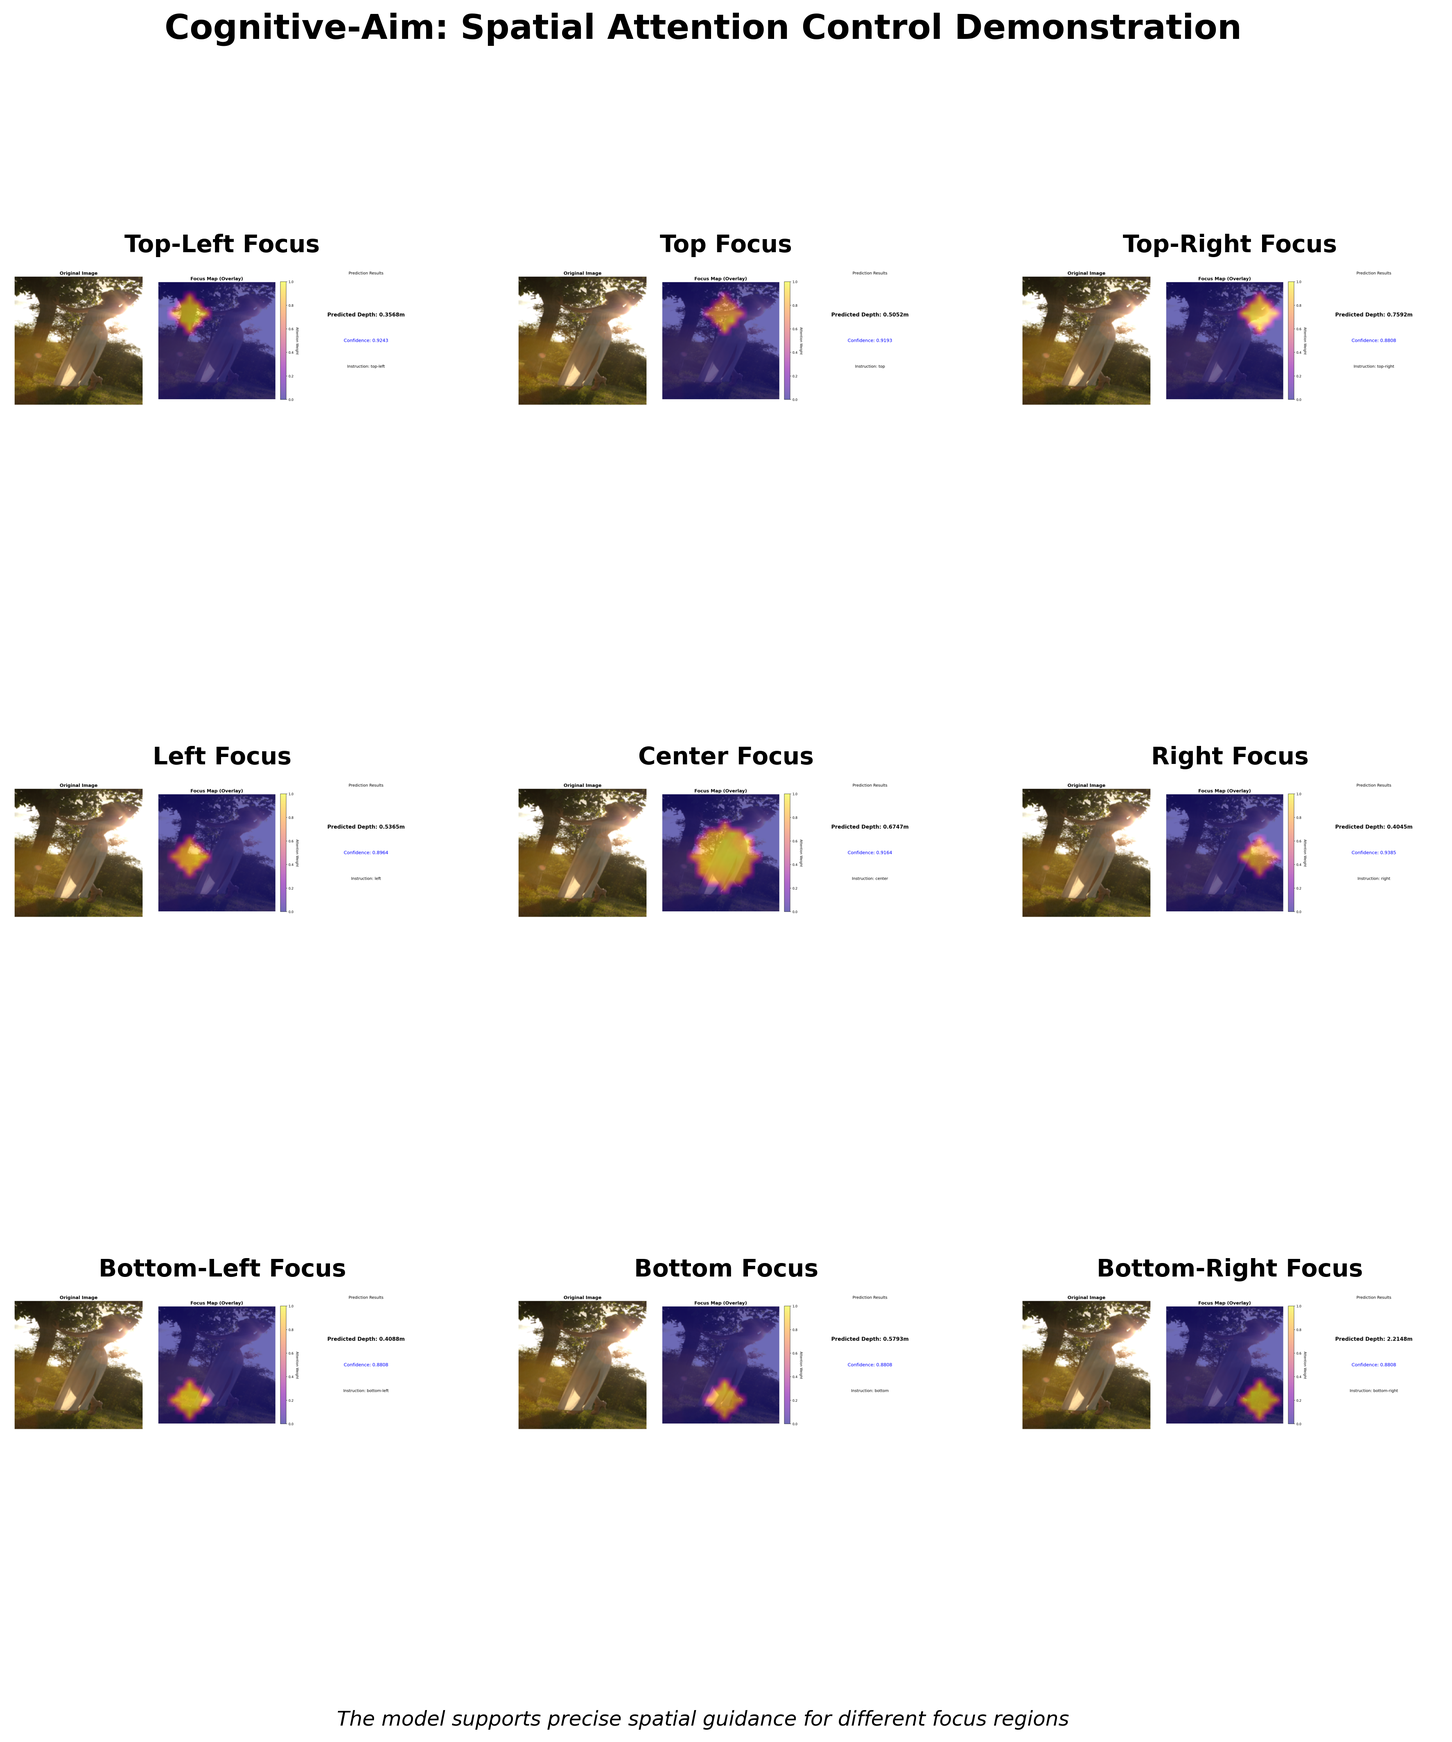
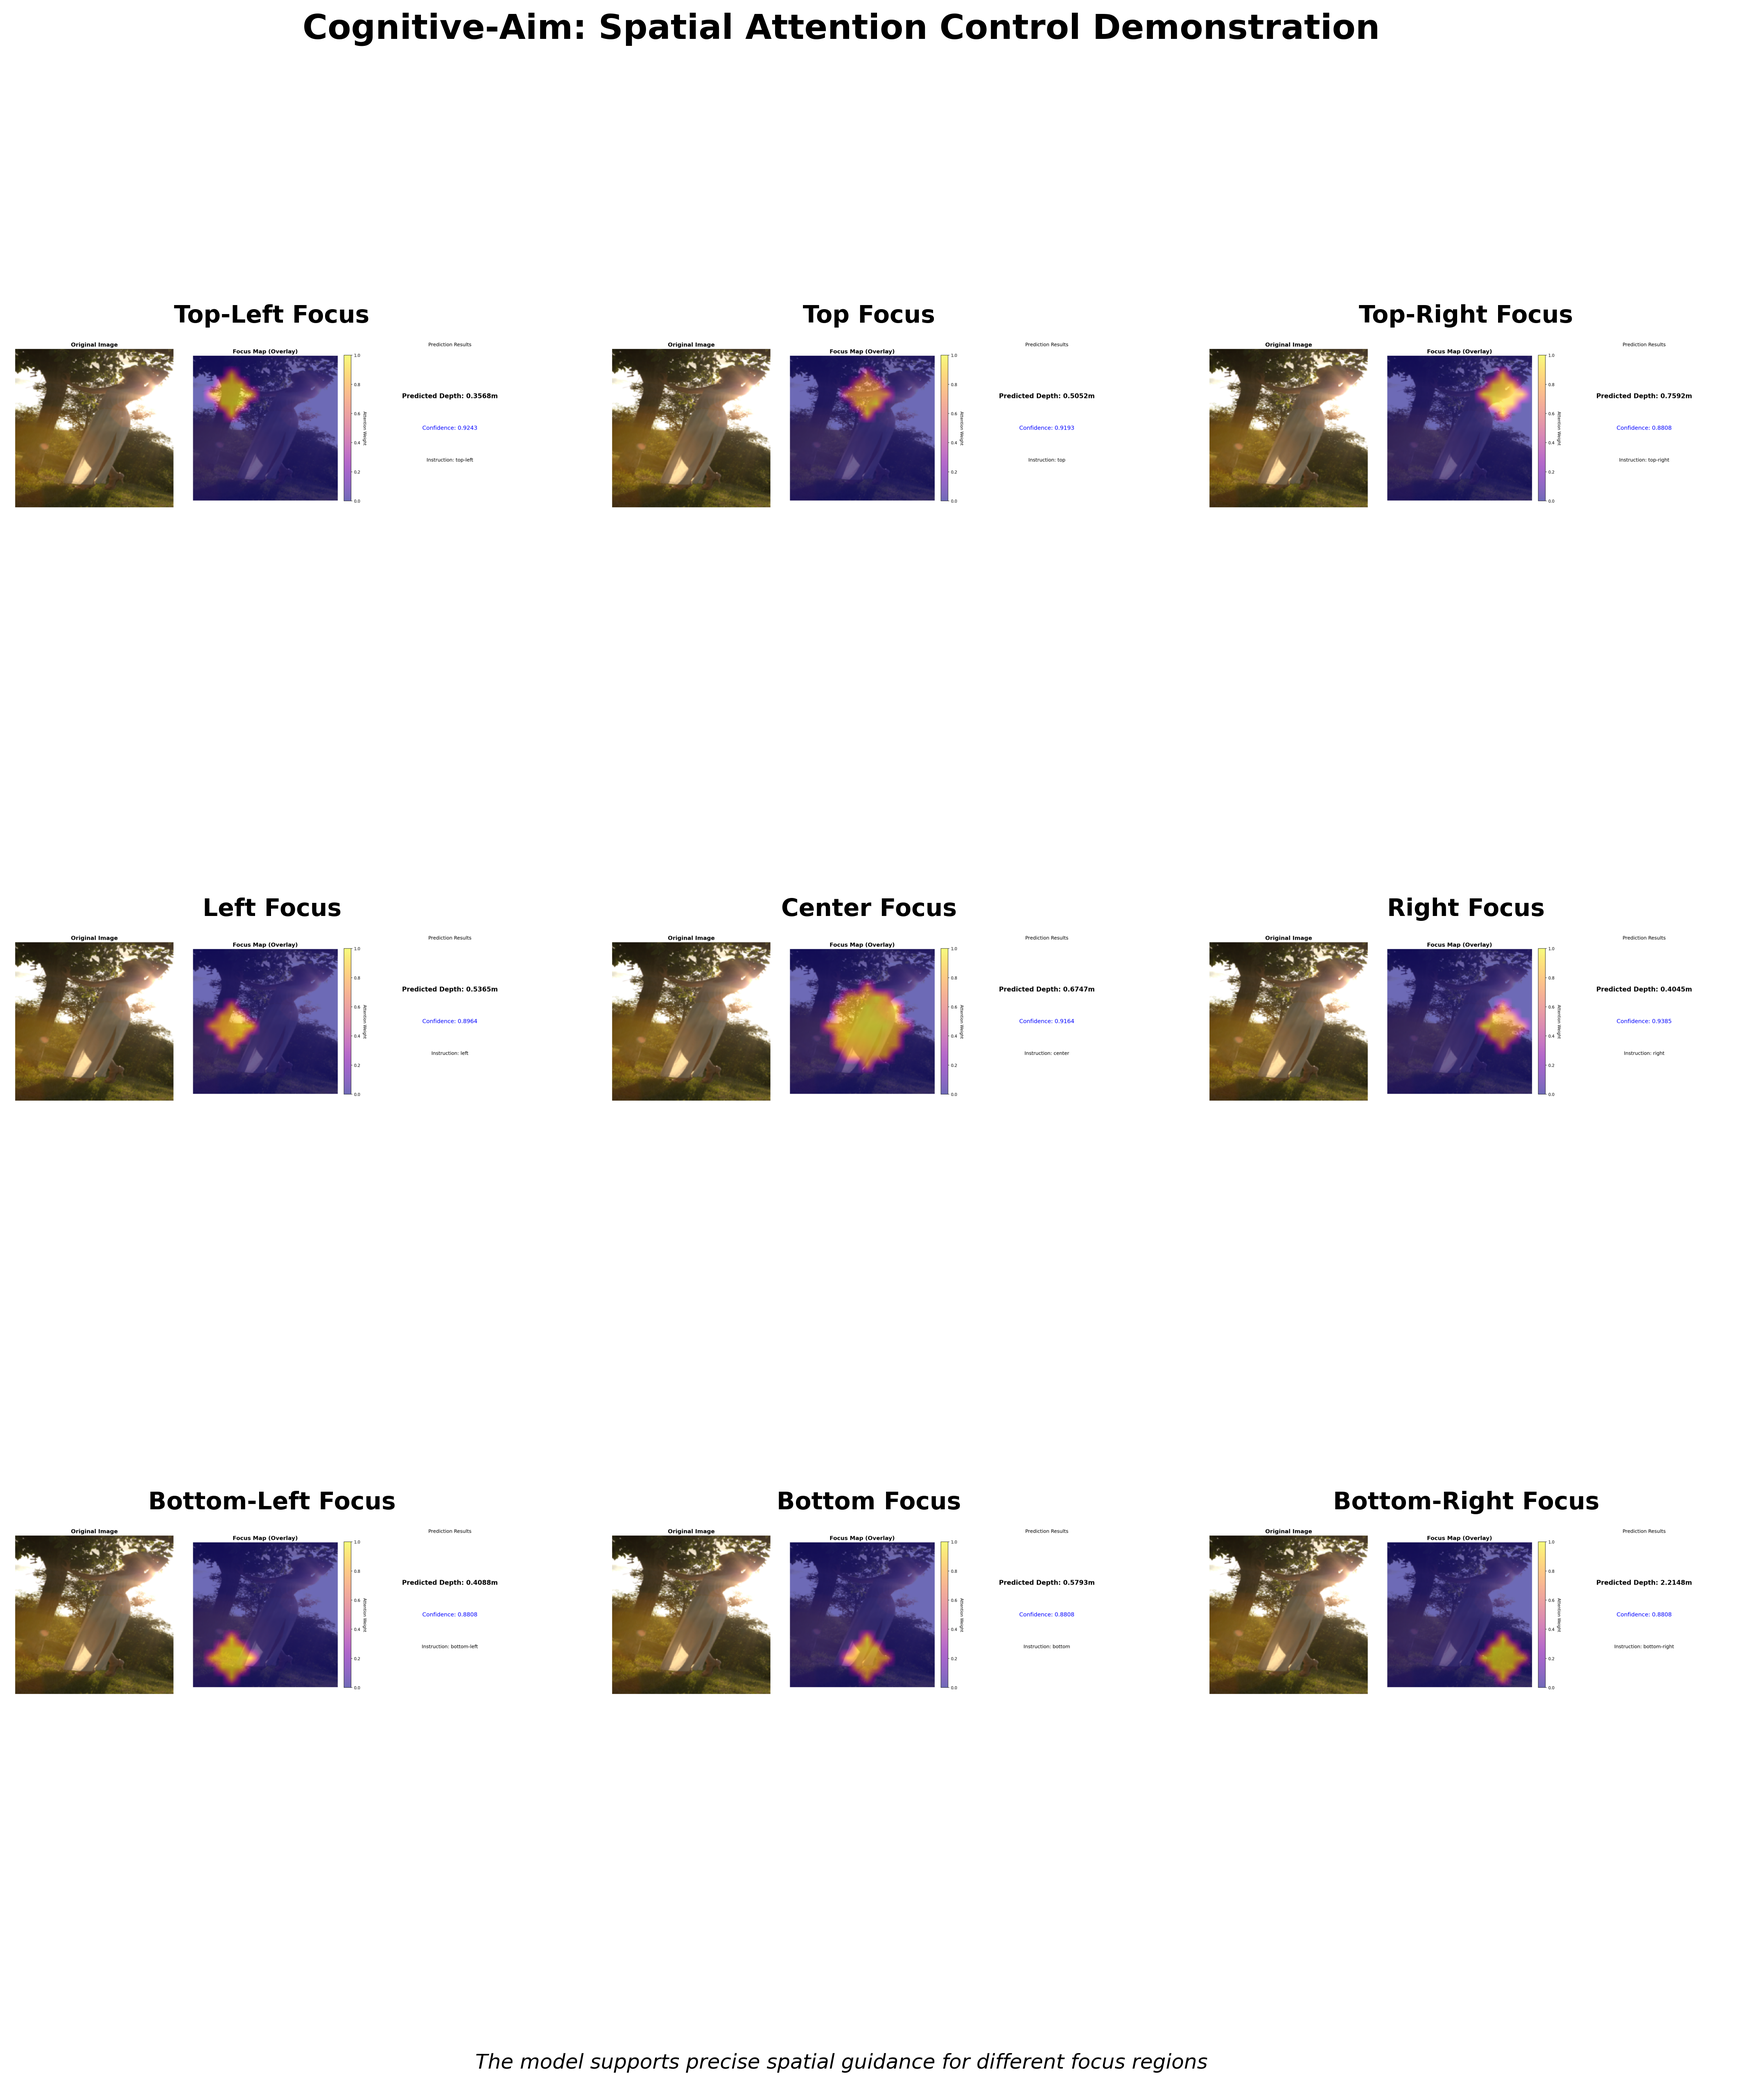
Improve nine-grid layout: larger subplots and reduced spacing

diff --git a/create_nine_grid_demo.py b/create_nine_grid_demo.py
@@ -28,9 +28,9 @@ def create_nine_grid_layout(demo_results_dir: str, output_path: str):
         ['bottom-left', 'bottom', 'bottom-right']
     ]
     
-    # 创建图形
-    fig = plt.figure(figsize=(15, 15))
-    gs = GridSpec(3, 3, figure=fig, hspace=0.3, wspace=0.2)
+    # 创建图形 - 增大尺寸，减小间距
+    fig = plt.figure(figsize=(18, 18))
+    gs = GridSpec(3, 3, figure=fig, hspace=0.15, wspace=0.15)
     
     # 设置整体标题
     fig.suptitle('Cognitive-Aim: Spatial Attention Control Demonstration', 
